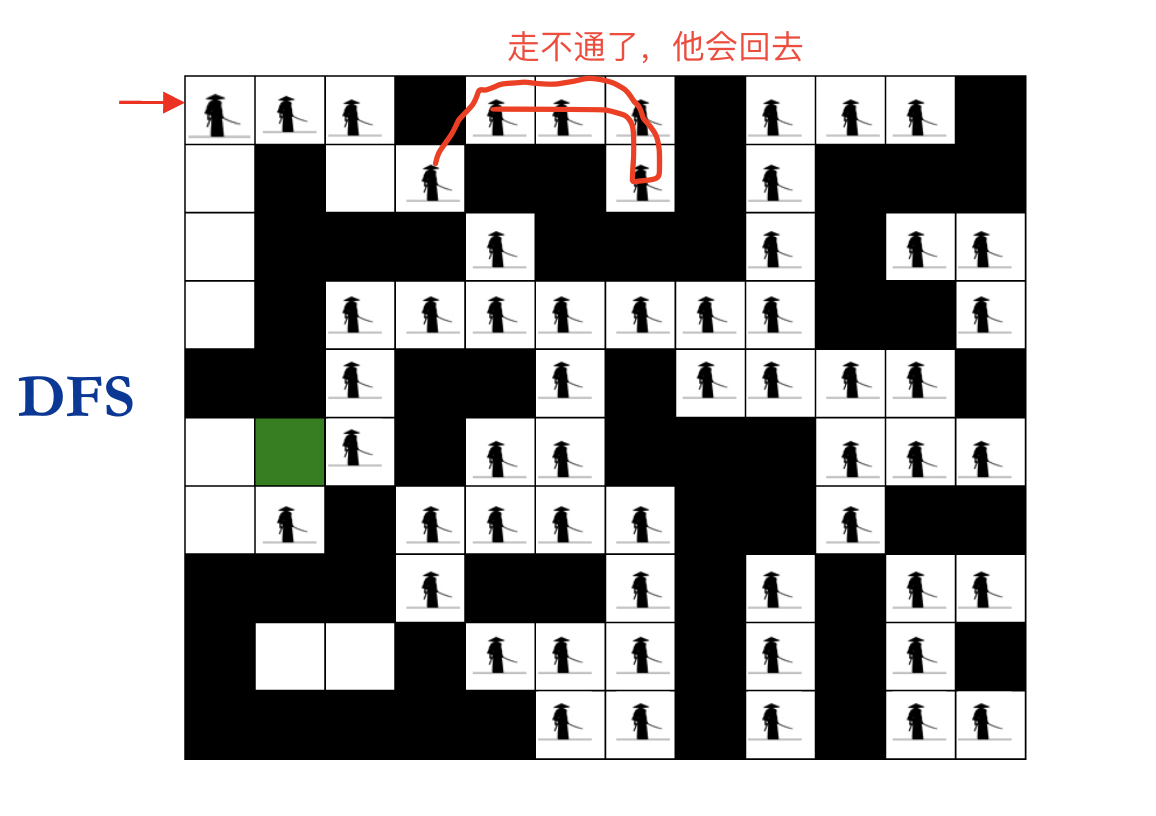
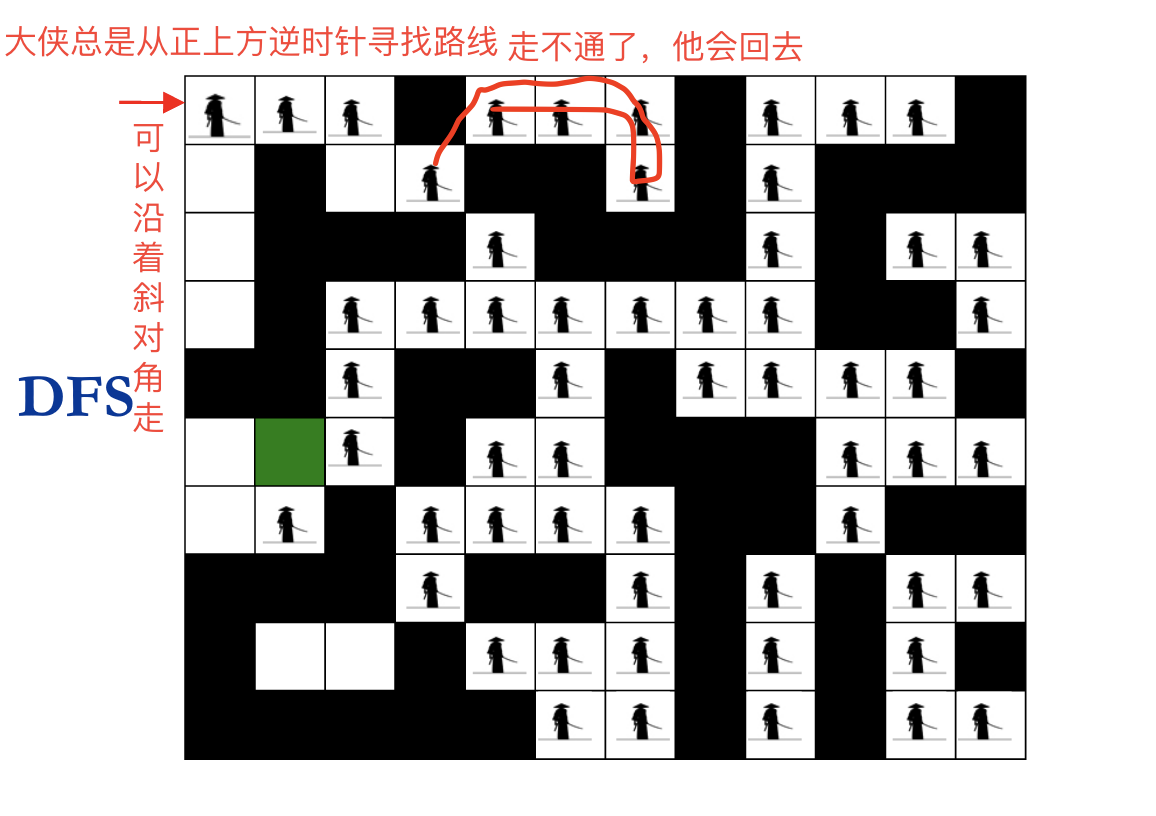
from mac

Changed region(s): [[0.0, 0.0306, 0.436, 0.0919], [0.0934, 0.2145, 0.1557, 0.5208], [0.0934, 0.1532, 0.1557, 0.1838]]

diff --git a/dataStructure/graph/如何建立图.md b/dataStructure/graph/如何建立图.md
@@ -1,2 +1,202 @@
 [TOC]
 
+# 邻接矩阵
+
+## 图的数据结构
+
+```c
+typedef struct Gnode *PtrToGNode;
+struct GNode{
+  int Nv;/*顶点数*/
+  int Ne;/*边数 */
+  WeightType G[MaxVertexNum][MaxVertexNum];
+  DataType Data[MaxVertexNum];/*存顶点的数据 */
+};
+
+typdef PtrToGNode MGraph;/*以邻接矩阵存储的图类型*/
+```
+
+
+
+## 初始化顶点
+
+初始化一个有VertexNum个顶点但没有边的图
+
+```c
+typedef int Vertex;/* 用顶点下标表示顶点，为整数 */
+MGraph CreateGraph(int VertexNum){
+  Vertex V, W;
+  MGraph Graph;
+  
+  Graph = (MGraph)malloc(sizeof(struct GNode));
+  Graph->Nv = VertexNum;
+  Graph->Ne = 0;
+  
+  /* 这里默认顶点编号从0开始，到(Graph->Nv -1) */
+  for(V=0; V<Graph->Nv; V++){
+    for(W=0; W<Graph->Nv; W++){
+      Graph->G[V][W] = 0;
+    }
+  }
+  return Graph;
+}
+```
+
+
+
+## 初始化边
+
+```c
+typedef struct ENode *PtrToENode;
+struct ENode{
+  Vertex V1, V2;/* 有向边<V1,V2> */
+  WeightType Weight;/* 权重 */
+};
+typedef PtrToENode Edge;
+
+void InsertEdge(MGraph Graph, Edge E){
+  /* 插入边 <V1,V2> */
+  Graph->G[E->V1][E->V2] = E->Weight;
+  
+  /* 若是无向图，还要插入边<V2,V1> */
+  Graph->G[E->V2][E->V1] = E->Weight;
+}
+```
+
+
+
+## 完整的建立图
+
+* 输入格式
+
+  ```
+  Nv Ne
+  V1 V2 Weight
+  .....
+  ```
+
+  
+
+```c
+MGraph BuildGraph(){
+  
+  MGraph Graph;
+  Edge E;
+  Vertex V;
+  int Nv,i;
+  
+  /* 读取顶点数，并初始化图 */
+  scanf("%d", &Nv);
+  Graph = CreateGraph(Nv);
+  
+  scanf("%d", &(Graph->Ne));
+  if(Graph->Ne !=0){
+    E = (Edge)malloc(sizeof(struct ENode));
+    for(i=0; i<Graph->Ne; i++){
+      scanf("%d %d %d", &E->V1, &E->V2, &E->Weight);
+      InsertEdge(Graph, E);
+    }
+  }
+  
+  /* 如果顶点有数据的话，读入数据 */
+  for(V=0; V<Graph->Nv; V++){
+    scanf("%c", &(Graph->Data[V]));
+  }
+  return Graph;
+}
+```
+
+
+
+# 邻接表
+
+邻接表：G[N]为指针数组，对应矩阵每行一个链表，只存非0元素
+
+![image-20190707110745762](/Users/chenyansong/Documents/note/images/data_structure/image-20190707110745762.png)
+
+## 图的数据结构
+
+```c
+typedef struct GNode *PtrToGNode;
+struct GNode{
+  int Nv;/* 顶点数 */
+  int Ne;/* 边数 */
+  AdjList G;/* 邻接表 */
+};
+typedef PtrToGNode LGraph;
+
+typedef stuct Vnode{
+  PtrToAdjVNode FirstEdge;/* 第一条边 */
+	DataType Data;/* 存顶点的数据 */
+} AdjList[MaxVertexNum];
+//AdjList是邻接表类型
+
+typedef struct AdjVNode *PtrToAdjVNode;
+struct AdjVNode{
+  Vertex AdjV;/* 邻接点下标 */
+  WeightType Weight;//边权重
+  PtrToAdjVNode Next;
+};
+
+```
+
+
+
+## 初始化
+
+```c
+typedef int Vertex;/* 用顶点下标表示顶点，为整数 */
+LGraph CreateGraph(int VertexNum){
+  Vertex V, W;
+  LGraph Graph;
+  
+  Graph = (LGraph)malloc(sizeof(struct GNode));
+  Graph->Nv = VertexNum;
+  Graph->Ne = 0;
+  
+  /* 这里默认顶点编号从0开始，到(Graph->Nv -1) */
+  for(V=0; V<Graph->Nv; V++){
+    Graph->G[V].FirstEdge = NULL;
+  }
+  
+  return Graph;
+}
+```
+
+
+
+
+
+## 插入边
+
+```c
+void InsertGraph(LGraph Graph, Edge E){
+  
+  PtrToAdjvNode NewNode;
+  
+  /* 插入边 <V1, V2> */
+  /* 为V2建立新的邻接点 */
+  NewNode = (PtrToAdjVNode)malloc(sizeof(struct AdjVNode));
+  NewNode->AdjV = E->V2;
+  NewNode->Weight = E->Weight;
+  /* 将V2插入V1的表头 */
+  NewNode->Next = Graph->G[E->V1].FirstEdge;
+  Graph->G[E->V1].FirstEdge = NewNode;
+  
+  /* 若是无向图，还要插入边<V2, V1> */
+  /* 为V1建立新的邻接点 */
+  NewNode = (PtrToAdjVNode)malloc(sizeof(struct AdjVNode));
+  NewNode->AdjV = E->V1;
+  NewNode->Weight = E->Weight;
+  /* 将V1插入V2的表头 */
+  NewNode->Next = Graph->G[E->V2].FirstEdge;
+  Graph->G[E->V2].FirstEdge = NewNode;
+}
+```
+
+
+
+## 完整的建立图
+
+
+参照邻接矩阵

diff --git a/dataStructure/graph/图的遍历.md b/dataStructure/graph/图的遍历.md
@@ -14,16 +14,56 @@ Breadth First Serach
 
 ![image-20190622172849366](/Users/chenyansong/Documents/note/images/data_structure/image-20190622172849366.png)
 
-使用队列去访问：首先让一个节点入队，然后出队，将该节点的所有关联节点入队
+**使用队列去访问**：首先让一个节点入队，然后出队，将该节点的所有关联节点入队
 
 
 
 # 为啥需要两种遍历
 
-假设图中的人是：逆时针寻找可以走的格子
+假设图中的人是：逆时针寻找可以走的格子，迷宫的入口在左上角，出口在图中的绿色的方格上
 
 ![image-20190622173906855](/Users/chenyansong/Documents/note/images/data_structure/image-20190622173906855.png)
 
 ![image-20190622174131827](/Users/chenyansong/Documents/note/images/data_structure/image-20190622174131827.png)
 
 ![image-20190622174237769](/Users/chenyansong/Documents/note/images/data_structure/image-20190622174237769.png)
+
+
+
+# 图不连通怎么办
+
+对于孤立的节点，使用DFS或者BSF会丢掉一些孤立的节点，即在图不连通的时候，我们该怎么遍历呢？
+
+* 连通：如果从V到W存在一条（无向）路径，则称V和W是连通的
+
+* 路径：V到W的路径是一系列顶点（V，V1, V2,…,Vn, W)的集合，其中任一一对相邻的顶点间都有图中的边，路径的长度是路径中的边数（如果带权，则是所有边的权重和），**如果V到W之间的所有顶点都不同，则称简单路径**
+
+* 回路：起点等于终点的路径
+
+* 连通图：图中任意两顶点均连通
+
+* 连通分量（无向图）：无向图的极大连通子图
+
+  * 极大顶点数：再加1个顶点就不连通了
+
+  * 极大边数：包含子图中所有顶点相连的所有边
+
+    ![image-20190707095004132](/Users/chenyansong/Documents/note/images/data_structure/image-20190707095004132.png)
+    
+    从图中可以看到1号是图G的连通分量，同理3号子图也是图G的一个连通分量
+  
+* 强连通（有向图）：有向图中顶点V和W之间存在双向路径，则称V和W是强连通的
+
+* 强连通图：有向图中任意两个顶点均强连通
+
+* 强连通分量：有向图的极大强连通子图
+
+  ![image-20190707095757293](/Users/chenyansong/Documents/note/images/data_structure/image-20190707095757293.png)
+
+  图G有两个强连通子图（右侧），在A，B，C节点中，从A节点可以到C，而从C节点也是可以到A的，说明他们是强连通的，但是有A到D的路径，没有D到A的路径，所以D自己是一个单独的强连通分量
+
+* 图不连通怎么办？
+
+  其实我们调用DFS or BFS的时候，如果就把节点V所在的连通分量遍历了一遍，如果一个图有多个连通分量，那么我们只能遍历图的每一条连通分量，才能遍历整个图
+
+  ![image-20190707100403767](/Users/chenyansong/Documents/note/images/data_structure/image-20190707100403767.png)

diff --git a/markdown/甘特图-时间序列.md b/markdown/甘特图-时间序列.md
@@ -1,0 +1,45 @@
+```mermaid
+gantt
+dateFormat YYYY-MM-DD
+title 产品计划表
+section 初期阶段
+明确需求: 2017-03-01, 10d
+section 中期阶段
+跟进开发: 2017-03-11, 9d
+section 后期阶段
+抽查测试: 2017-03-20, 9d
+```
+
+
+
+```mermaid
+gantt
+        dateFormat  YYYY-MM-DD
+        title 软件开发甘特图2
+
+        section 设计
+        需求                      :done,    des1, 2014-01-06,2014-01-08
+        原型                      :active,  des2, 2014-01-09, 3d
+        UI设计                    :         des3, after des2, 5d
+   			未来任务                   :         des4, after des3, 5d
+
+        section 开发
+        理解需求                       :crit, done, 2014-01-06,24h
+        设计框架                              :crit, done, after des2, 2d
+        开发                                  :crit, active, 3d
+        未来任务                              :crit, 5d
+        耍                                   :2d
+
+    
+
+        section 测试
+        功能测试                              :active, a1, after des3, 3d
+        压力测试                               :after a1  , 20h
+        测试报告                               : 48h
+
+```
+
+
+
+参考：https://www.iminho.me/wiki/docs/mindoc/mermaid.md
+

diff --git a/dataStructure/graph/什么是图.md b/dataStructure/graph/什么是图.md
@@ -26,7 +26,7 @@
 
 * 类型名称：图Graph
 
-* 数据对象集：G(V,E)是由一个非空的有限顶点集合V和一个有限边集合E组成
+* 数据对象集：G(V,E)是由一个**非空的有限顶点**集合V和一个有限边集合E组成
 
 * 操作集
 
@@ -78,7 +78,7 @@
 
 * 邻接矩阵表示的不好
   * 浪费空间-存稀疏图(点很多而边很少)，有大量无效元素，但是对稠密图(特别是完全图)，还是很合算的
-  * 浪费空间-统计稀疏图中一共有多少条边
+  * 浪费时间-统计稀疏图中一共有多少条边
 
 
 
@@ -96,4 +96,19 @@
 
 * 邻接表的特点
 
-  ![image-20190622162544741](/Users/chenyansong/Documents/note/images/data_structure/image-20190622162544741.png)
+  * 方便找任一节点的所有“邻接点”
+  
+  * 节约稀疏图的空间
+  
+    * 需要N个头指针+2E个节点（每个节点至少2个域）
+  
+  * 方便计算任一顶点的“度”
+  
+    * 对无向图：是的
+    * 有向图：只能计算“出度”；需要构造“逆邻接表”（指向自己的边）来方便计算“入度”
+  
+  * 方便检查任意一对顶点间是否存在边？
+  
+    * No
+  
+    

diff --git a/dataStructure/tree/树的习题.md b/dataStructure/tree/树的习题.md
@@ -1,0 +1,18 @@
+[TOC]
+
+# Tree Traversals Again
+
+
+
+
+
+
+
+# Complete Binary Search Tree  
+
+
+
+
+
+# Huffman Codes
+
